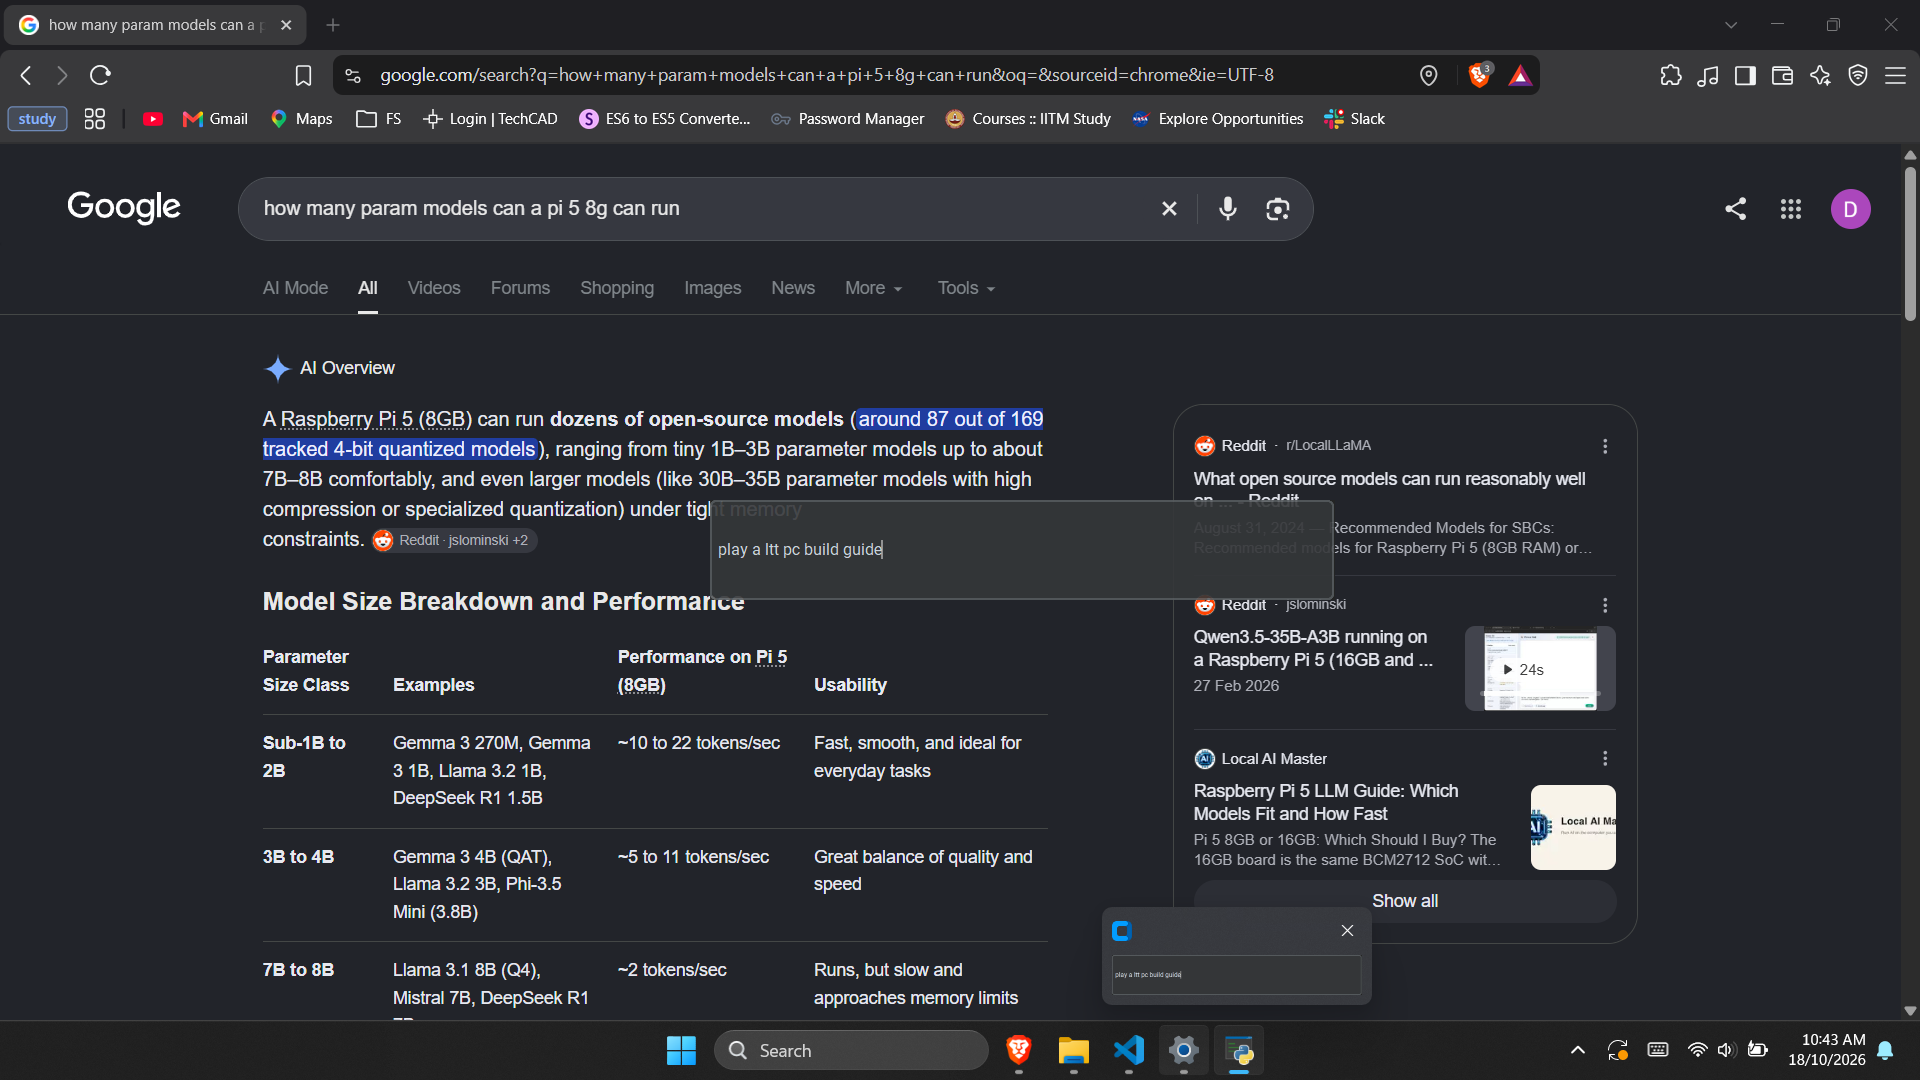
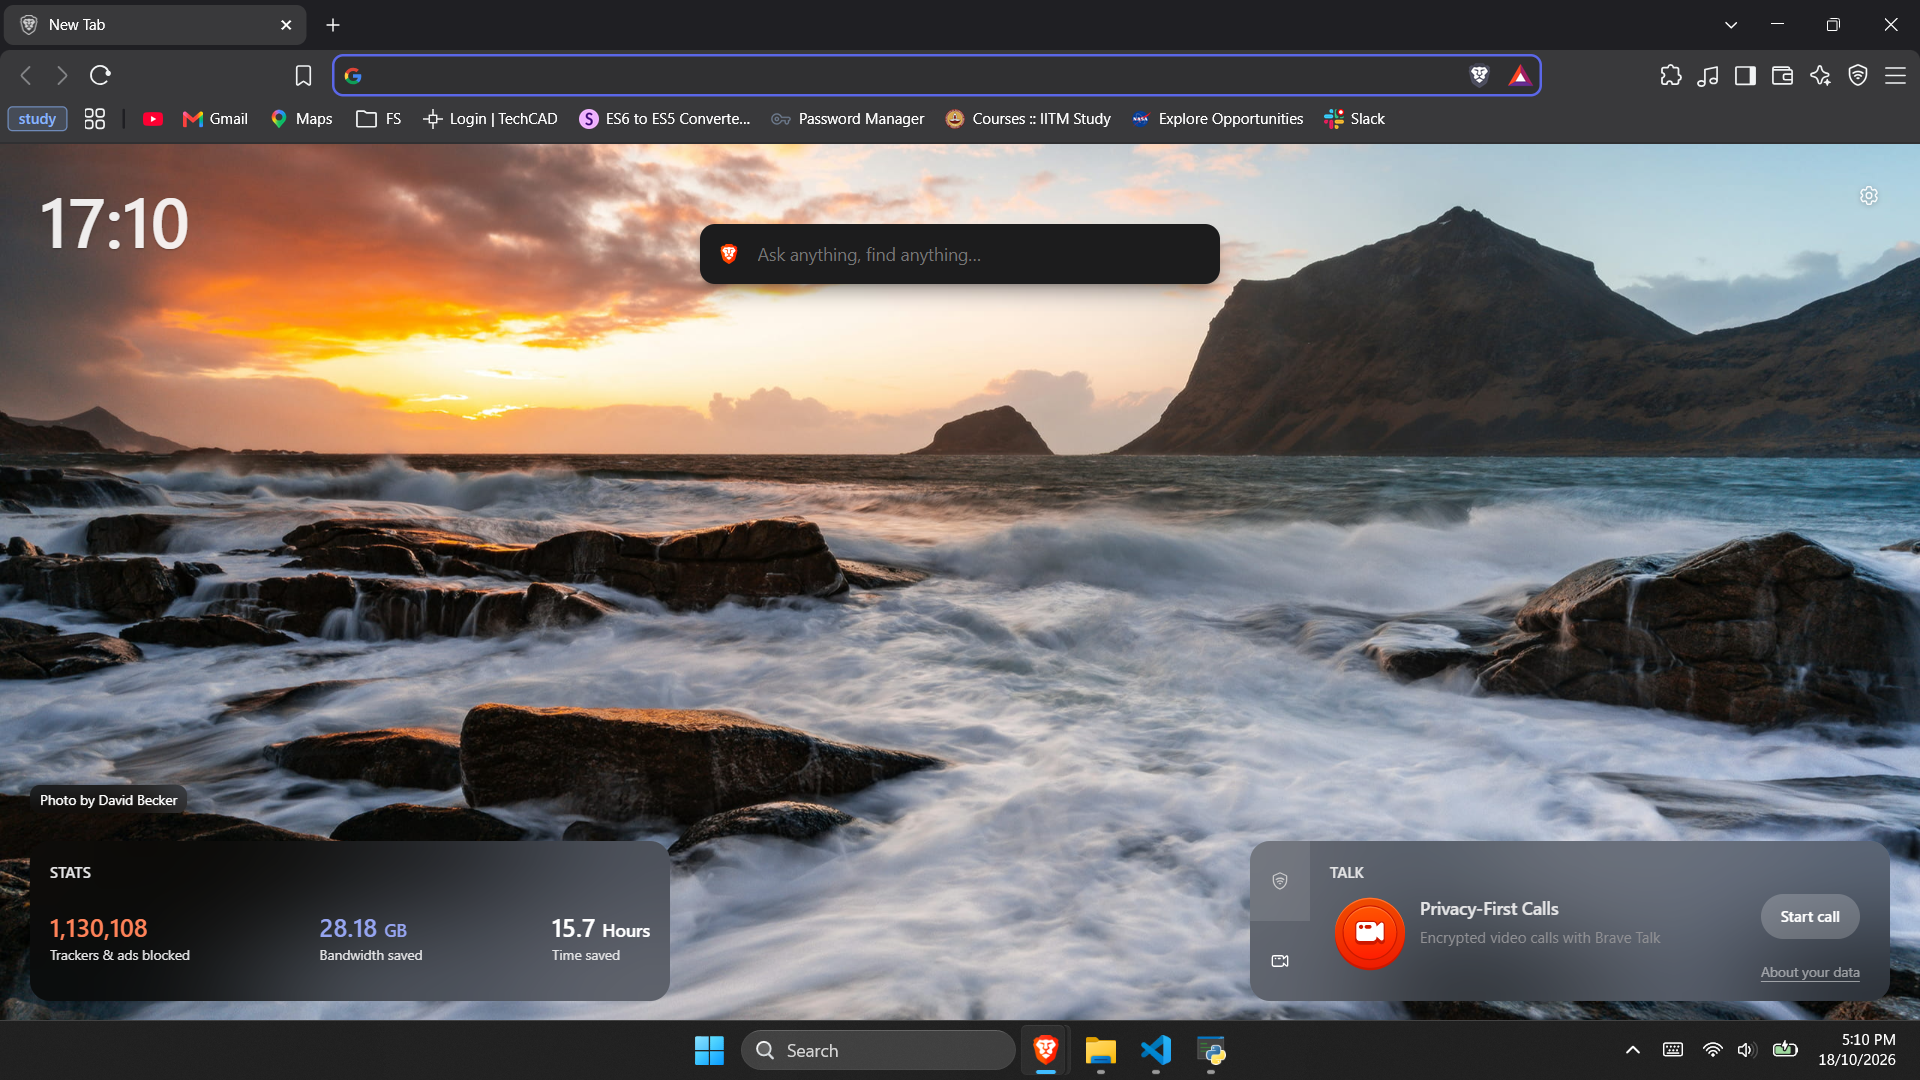
New Setup Wizard

diff --git a/main.py b/main.py
@@ -11,6 +11,8 @@ import base64
 import aiendpoint
 import localmodel
 import time
+import json
+
 pyautogui.FAILSAFE = True
 global AutoOut 
 AutoOut = False
@@ -22,14 +24,12 @@ global Vals
 Vals = {}
 
 #First Time Setup 
-try:
-    with open("C:\\ProgramData\\JarVis.txt","x",encoding="utf+8") as data:
-        pass
-except FileExistsError as e:
-    has_vals = True
-    with open("C:\\ProgramData\\JarVis.txt","r",encoding="utf+8") as data:
-            print(data.read())
-
+try :
+    with open("C:\\ProgramData\\JarVis.json","r",encoding="utf-8")as file:
+        Vals = json.load(file)
+        print(Vals)
+except Exception as e:
+    print("Error in loading file :",e)
 
 #==========================================================================================================================
 #autoclose functions
@@ -64,6 +64,16 @@ def flash():
 #Main function to send the Prompt
 def enter(text):
     global previousmsg
+    visualiser = CTk()
+    visualiser.geometry("500x80")
+    Info = CTkLabel(visualiser,text="Information Panel : Whatever Ai wants to tell you will be written here",width=500,height=80)
+    Info.grid()
+    visualiser.attributes("-topmost",True)
+    try:
+        Info.configure(text=previousmsg[-1].split("#*&")[1])
+    except Exception as e:
+        pass
+    
     ss = pyautogui.screenshot()
     bufferedimg = io.BytesIO()
     ss.save(bufferedimg, format="PNG")
@@ -93,27 +103,28 @@ def enter(text):
         "Click the CENTER of the target, not its edge. "
         "Do not resize or scale coordinates. "
         "Carefully estimate the center of the target using its visible boundaries. "
+        "IF YOU WANT TO INFORM THE USER OF SOMETHING , at the end of the PROMPT add #*& followed by your message"
         "CRITICAL: Look at the screenshot. If the task described in the instructions is done or the previous message(s) have already executed your task move on to the next one "
         +pmsgstr
     )
-
-    msg = aiendpoint.req(full_prompt,mime_type,b64img)
+    msg = aiendpoint.req(full_prompt,mime_type,b64img,Vals["Endpoint"],Vals["Auth"],Vals["Model"])
     print(msg)
     previousmsg.append(msg)
-    
+    visualiser.withdraw()
     if msg == "{DONE}":
         sys.exit()
     elif "CTE" in msg:
         flash()
-        X = int(msg.split("|")[0].split("(")[1].split(")")[0].split[0])
-        Y = int(msg.split("|")[0].split("(")[1].split(")")[0].split[1])
+        X = int(msg.split("|")[0].split("(")[1].split(")")[0].split(',')[0])
+        Y = int(msg.split("|")[0].split("(")[1].split(")")[0].split(',')[1])
         text = msg.split("|")[1].split("\"")[1]
         pyautogui.click(X,Y)
         keyboard.write(text)
         pyautogui.press("enter")
+        enter(text)
     elif msg == "{BROWSER}":
         flash()
-        subprocess.Popen(r"C:\Program Files\BraveSoftware\Brave-Browser\Application\brave.exe")
+        subprocess.Popen(Vals["Browser"])
         time.sleep(2)
         enter(text)
     elif "CLICK" in msg :
@@ -153,48 +164,57 @@ def setup():
     global Vals
     Vals = {}
     default_browser = ''
+    global page
+    page = 0
     #Default Browser
-    def dbset():
+    def pick_browser():
         default_browser = filedialog.askopenfilename(
                     title="SELECT YOUR DEFAULT BROWSER",
                     initialdir="%USERPROFILE%",
                     filetypes=[("Windows Executables (Your Browser)","*.exe")]
                 )
-        btn1.configure(text="Current Browser :"+default_browser)
-        Vals["Browser"] = default_browser
-
+        Value.insert(0,default_browser)
     def nxt():
-        global Vals
-        DB.withdraw()
-        
-        AApi = CTkToplevel()
-        def Api():
-            global Vals
-            Vals["Endpoint"] = E1
-            Vals["Auth"] = E2
-            Vals["Model"] = E3
-            AApi.withdraw()
+        global page
+        if page == 0:
+            Vals["Browser"] = Value.get()
+            page = 1
+            file_pick.destroy()
+            lbl.configure(text="Enter Your API Endpoint")
+            Value.delete(0,"end")
+            Value.configure(placeholder_text="Enter your api endpoint ....")
+        elif page == 1:
+            Vals["Endpoint"] = Value.get()
+            page = 2
+            lbl.configure(text="Enter Your Api Auth Token") 
+            Value.delete(0,"end")
+            Value.configure(placeholder_text="Enter API KEY , usually a long string ....")
+        elif page == 2:
+            Vals["Auth"] = Value.get()
+            lbl.configure(text="Enter Your Model :")
+            Value.delete(0,"end")
+            Value.configure(placeholder_text="Enter model , better model is usually more expensive")
+            page = 3
+            next_button.configure(text="Submit")
+        elif page == 3:
+            Vals["Model"] = Value.get()
+            setup_wizard.withdraw()
             global AutoOut
             AutoOut = True
-
-        E1 = CTkEntry(AApi,placeholder_text="Enter Your Api Endopint :")
-        E1.grid()
-        E2 = CTkEntry(AApi,placeholder_text="Enter Your Api Key : ")
-        E2.grid()
-        E3 = CTkEntry(AApi,placeholder_text="Enter Your Ai Model :  ")
-        E3.grid()
-        CTkButton(AApi,text="Next",command=Api).grid()
-        AApi.mainloop() 
-
-        with open("C:\\ProgramData\\JarVis.txt","w") as file :
-            file.write(str(Vals))
-
-    DB = CTkToplevel()
-    btn1 = CTkButton(DB,text="Current Browser : None",command=dbset)
-    btn1.grid()
-    CTkButton(DB , text="Next",command=nxt).grid(row=1)
-    DB.mainloop()
-
+            with open("C:\\ProgramData\\JarVis.json","w") as file:
+                json.dump(Vals,file,indent=4)
+    
+    setup_wizard = CTk()
+    setup_wizard.title("SETUP WIZARD")
+    lbl = CTkLabel(setup_wizard,text="ENTER DEFAULT BROWSER : ")
+    lbl.grid(row=0,column=0)
+    Value = CTkEntry(setup_wizard,placeholder_text="ENTER PATH TO DEFAULT BROWSER OR Pick A FILE ....",width=300)
+    Value.grid(row=1,column=0)
+    file_pick =CTkButton(setup_wizard,text="...",command=lambda : pick_browser())
+    file_pick.grid(row=1,column=1)
+    next_button =CTkButton(setup_wizard,text="NEXT",command=nxt)
+    next_button.grid(row=2,column=1)
+    setup_wizard.mainloop()
 
 
 
@@ -224,6 +244,5 @@ CTkButton(root,width=480, text="SETUP WIZARD",fg_color="#2c2e35",command=setup).
 #AutoClose Code
 root.bind("<FocusOut>", lambda event : autoclose(""))
 root.after(10,lambda : autoout())
-if not has_vals:
-    root.after(50,lambda event : setup())
+
 root.mainloop()

diff --git a/aiendpoint.py b/aiendpoint.py
@@ -3,43 +3,21 @@ import os
 from openai import OpenAI
 import requests
 #HCAPI
-def print_all_models():
-    URL = "http://n1.eclipsesystems.org:30012/v1/models"
-
-
-    headers = {
-        "Authorization": f"Bearer "
-    }
-
-    response = requests.get(URL, headers=headers, timeout=30)
-    response.raise_for_status()
-
-    data = response.json()
-    print(data)
 
 
 
 
-def req(full_prompt,mime_type,b64img):
-    #Write and ask api key
-    try:
-        with open("C:\\ProgramData\\KILOAI_API_KEY.txt", "x", encoding="utf-8") as file:
-            apikey = input("Enter your GROQ api key : ")
-            file.write(apikey)
-            file.close()
-    except FileExistsError:
-        pass
-    with open("C:\\ProgramData\\KILOAI_API_KEY.txt","r+",encoding="utf-8") as apk:
-        content = apk.read()
-        apikey = content
-        client = OpenAI(
-            base_url = "https://openrouter.ai/api/v1",
-            api_key = ""
-            )
+
+def req(full_prompt,mime_type,b64img,endpoint,api_key,model):
+    
+    client = OpenAI(
+        base_url = endpoint,
+        api_key = api_key
+    )
 
 
     completion = client.chat.completions.create(
-        model="nvidia/nemotron-3.5-super-vl:free",
+        model=model,
                 max_tokens=200, 
                 temperature=0,
                 messages=[

diff --git a/backroundService.py b/backroundService.py
@@ -1,0 +1,4 @@
+import keyboard
+
+def hotkeyclicked():
+    print("Pressed")

diff --git a/ReadMe.md b/ReadMe.md
@@ -1,0 +1,28 @@
+#JarVis (get it?)
+
+This app is inspired by Iron Man's Jarvis Ai assistant but for your computer
+It uses any AI API that can work with a custom endpoint on OpenAI
+
+The AI sends commands Back to the the python script which will then perform those actions
+
+IMPORTANT : EMERGENCY STOP -> ESC , will crash the whole program , use if the AI is doing something you dont want.
+
+#SETUP
+
+Run the Program , and click the SETUP Wizard button.
+
+Select your default Browser 
+
+Enter your AI endpoint 
+              Auth token (Aka. Api Key)
+              Model (More Param , beter understanging , higher costs)
+
+
+IF JARVIS IS NOT WORKING , Re:Run The Setup WIZARD . 
+
+Some Notable FREE Ai Platforms For you to connect JARVIS To
+
+Google Ai Studio ----> All Gemini Models
+Groq --> Many Models , ~200 actions / day
+Open Router --> Many free Models , sometimes unreliable
+
